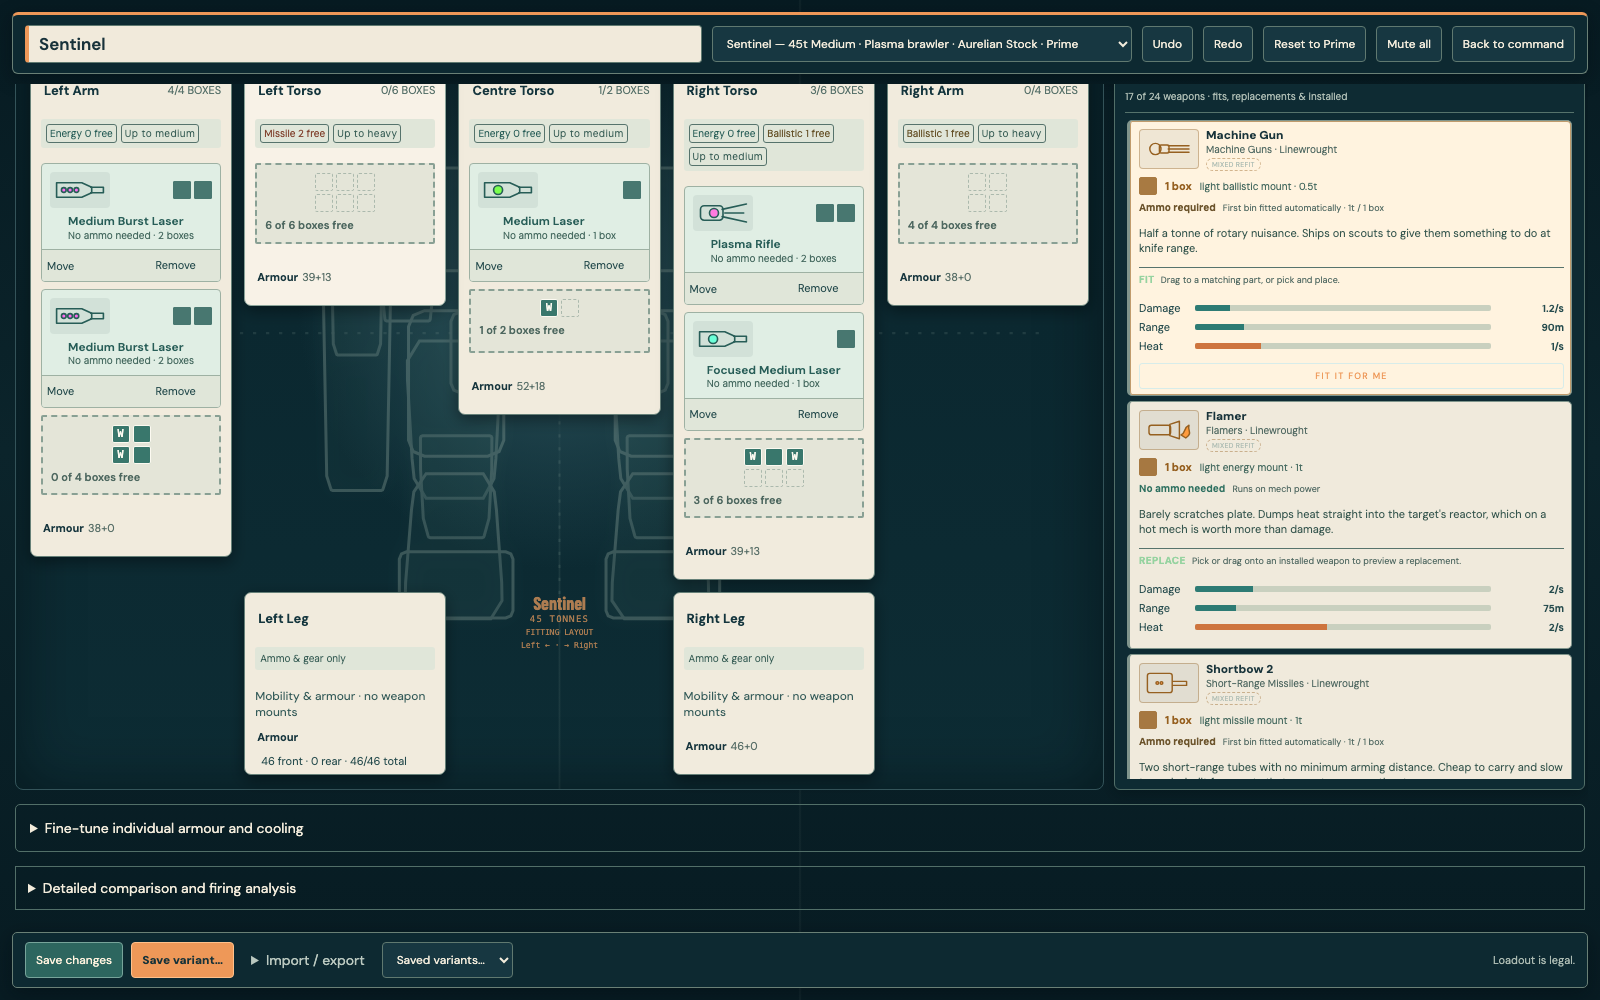
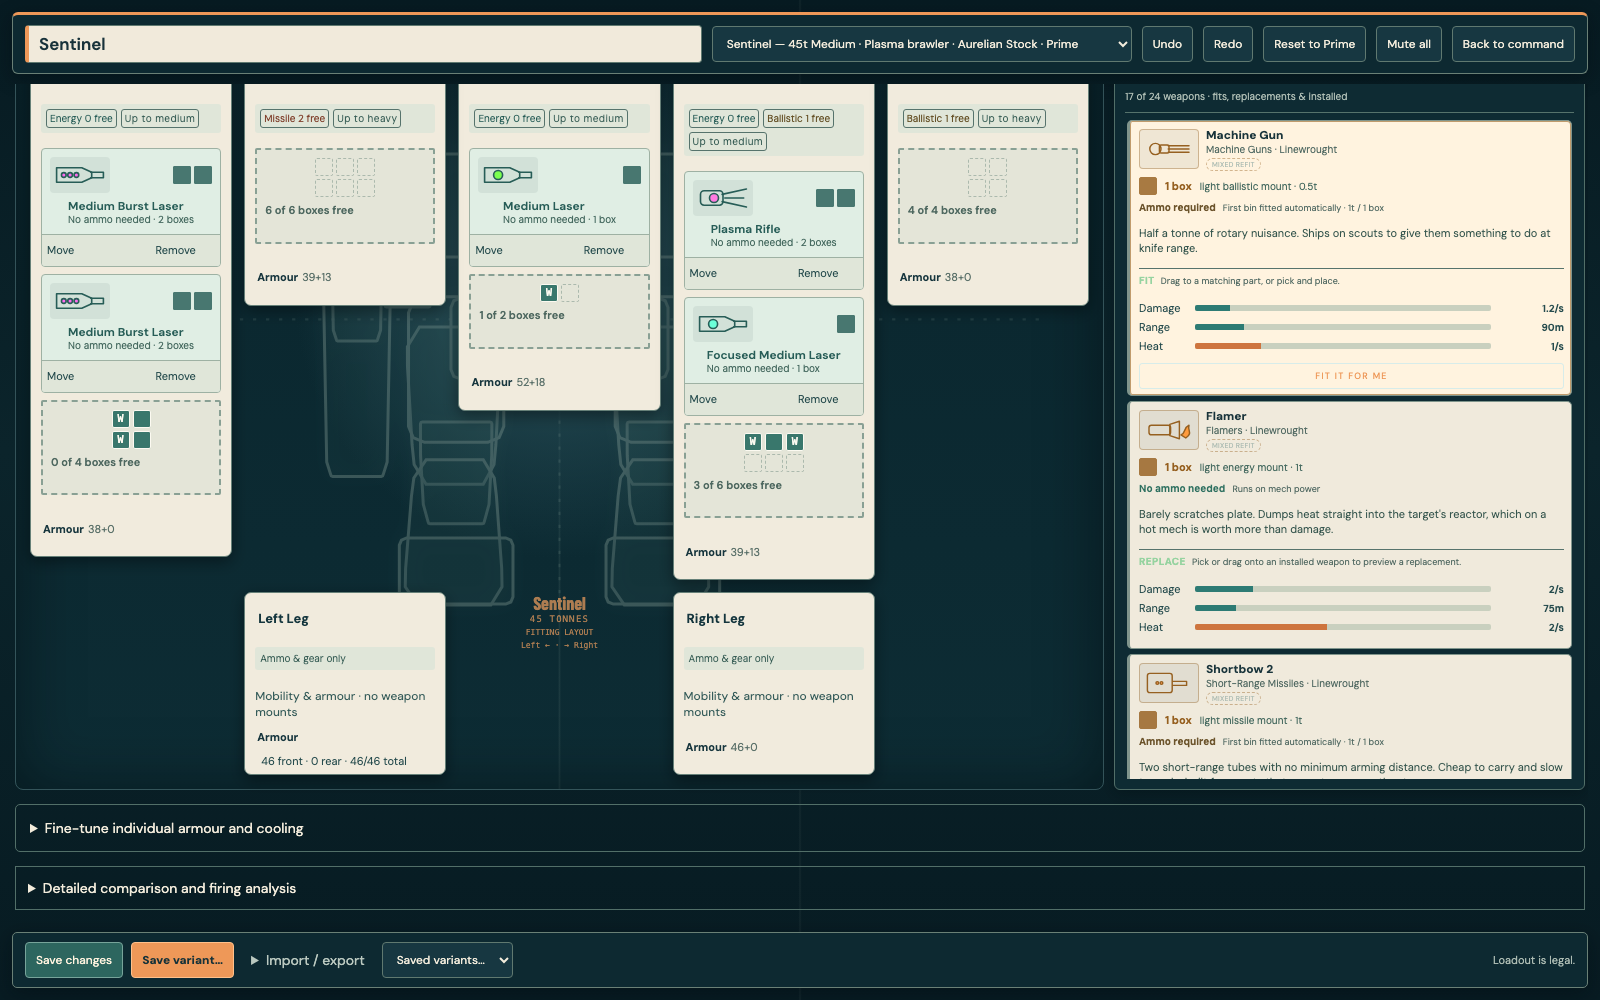
Stabilise laptop drop targets and update mission reward guidance

diff --git a/src/ui/mechbay/unifiedBay.css b/src/ui/mechbay/unifiedBay.css
@@ -64,7 +64,7 @@
 .bay.bay--workspace .slot-boxes .rack-cell,
 .bay.bay--workspace .anatomical-layout .slot-boxes .rack-cell,
 .bay.bay--workspace .anatomical-layout .rack-capacity .rack-cell { width: 18px; height: 18px; min-width: 18px; border-width: 1.5px; font-size: 10px; }
-.bay.bay--workspace .anatomical-layout .rack-free-count { display: block; width: 100%; font-size: 11px; line-height: 1.4; }
+.bay.bay--workspace .anatomical-layout .rack-free-count { display: block; width: 100%; font-size: 11px; line-height: 1.4; min-height:2.8em; }
 .bay.bay--workspace .anatomical-layout .rack-drop-space { display: block; width: 100%; }
 .bay.bay--workspace .anatomical-layout .bay-location-feedback { position: static; transform: none; font-size: 11px; }
 .bay.bay--workspace .anatomical-layout .bay-location-refusal { background: #fff0db; color: #713e23; padding: 5px; }

diff --git a/docs/review/variants-instant-preparation.md b/docs/review/variants-instant-preparation.md
@@ -18,6 +18,7 @@ Variants are local to the browser and origin. Import/export remains available fo
 
 - All 3,490 fast tests pass, including campaign acceptance, save migration, exact-payment/insufficient-funds repair checks and pilot injury protection.
 - Both faction browser journeys pass all 24 checks: settlement, salvage inventory, immediate repairs, named shared variants, exact deployment designs and skirmish reuse. These use controlled battle-result fixtures, not a claim of two manual full-campaign playthroughs.
+- The 17 layout and named-save checks also verify a visible error inside the naming dialog, no partial write on storage failure, and a successful retry.
 - Native pointer fitting checks cover moving installed weapons, illegal drops, undo, shelf placement, automatic ammunition, keyboard placement, exact save/reload and phone touch targets.
 - Anatomy checks inspect every authored chassis at 1280×720; additional geometric checks cover 1600, 1280, 1024 and 390 pixel widths, centred head, left/right parts and no page overflow.
 - Dedicated sensor checks verify paused activation, fog-preserving tracked red dots and probe expiry. No sensor simulation change was needed.
